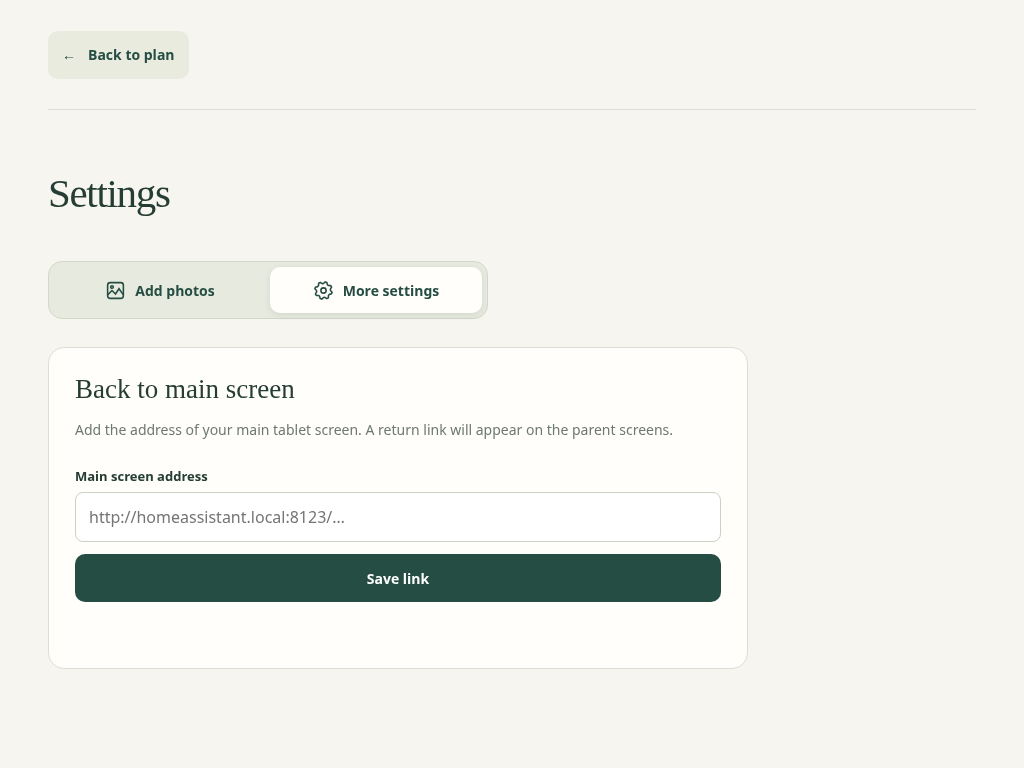
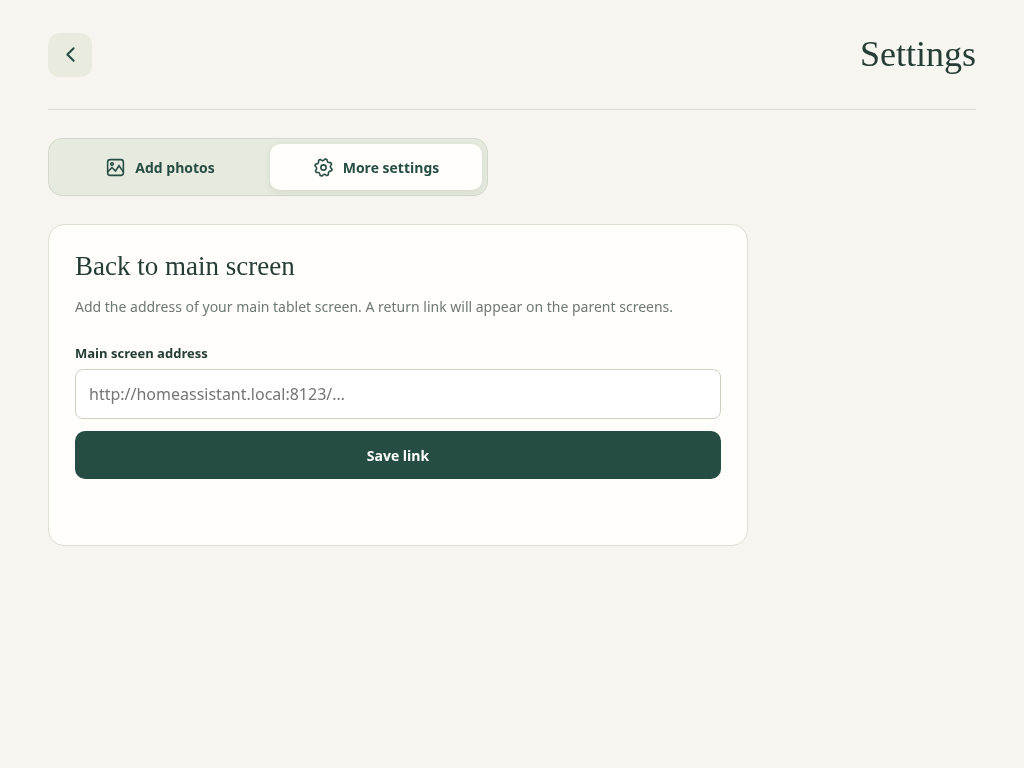
Introduce step-by-step planning and compact navigation in v1.0.17

diff --git a/transition_cues/transition-cues-web/app.js b/transition_cues/transition-cues-web/app.js
@@ -3,7 +3,7 @@ const $ = s => document.querySelector(s);
 const esc = x => String(x ?? '').replace(/[&<>"']/g, c => ({'&':'&amp;','<':'&lt;','>':'&gt;','"':'&quot;',"'":'&#39;'}[c]));
 const app = $('#app');
 let state, selected = {places:null, transport:null, items:[], people:[]}, category = 'places', locked = null, taps = [], pendingDelete = null;
-let toastTimer, pendingJourney = null, pendingEdit = null, itemsReviewed = false, reorderBusy = false, settingsTabFocus = false;
+let toastTimer, pendingJourney = null, pendingEdit = null, planStep = 0, reorderBusy = false, settingsTabFocus = false;
 function toast(message) { $('#toast').textContent = message; $('#toast').hidden = false; clearTimeout(toastTimer); toastTimer = setTimeout(() => $('#toast').hidden = true, 4500); }
 async function api(path, data) {
   let response;
@@ -17,14 +17,15 @@ async function api(path, data) {
 async function refresh() { state = await api('state'); state.items ??= []; state.people ??= []; }
 const libraryIcon='<svg viewBox="0 0 24 24" fill="none" stroke="currentColor" stroke-width="1.8" aria-hidden="true"><rect x="3" y="3" width="18" height="18" rx="3"/><circle cx="8" cy="8" r="1.5"/><path d="m3 17 5-5 4 4 4-6 5 7"/></svg>';
 const settingsIcon='<svg viewBox="0 0 24 24" fill="none" stroke="currentColor" stroke-width="1.8" stroke-linejoin="round" aria-hidden="true"><polygon points="20.00,12.00 21.81,13.95 21.24,15.83 18.65,16.44 17.66,17.66 17.56,20.31 15.83,21.24 13.56,19.85 12.00,20.00 10.05,21.81 8.17,21.24 7.56,18.65 6.34,17.66 3.69,17.56 2.76,15.83 4.15,13.56 4.00,12.00 2.19,10.05 2.76,8.17 5.35,7.56 6.34,6.34 6.44,3.69 8.17,2.76 10.44,4.15 12.00,4.00 13.95,2.19 15.83,2.76 16.44,5.35 17.66,6.34 20.31,6.44 21.24,8.17 19.85,10.44"/><circle cx="12" cy="12" r="3"/></svg>';
+const backIcon='<svg viewBox="0 0 24 24" fill="none" stroke="currentColor" stroke-width="2" stroke-linecap="round" stroke-linejoin="round" aria-hidden="true"><path d="m15 18-6-6 6-6"/></svg>';
 function frame(content, route) {
   document.body.classList.remove('lock-active');
-  app.innerHTML = `<div class="shell"><header class="header ${route==='choose'?'':'subpage-header'}">${route==='choose'?'<a class="brand" href="#choose"><img src="/icon.svg" alt=""><span>ReadySteady<small>Transition Cues</small></span></a>':'<a class="back-plan secondary" href="#choose"><span aria-hidden="true">←</span> Back to plan</a>'}${route==='choose'?`<nav class="nav" aria-label="Main navigation">${[['manage','Picture library',libraryIcon],['settings','Settings',settingsIcon]].map(([r,t,icon])=>`<a class="icon-link" href="#${r}" aria-label="${t}" title="${t}" ${route===r?'aria-current="page"':''}>${icon}</a>`).join('')}</nav>`:''}${state.returnUrl ? `<a class="return-link" href="${esc(state.returnUrl)}">← Back to main screen</a>` : ''}</header>${content}</div>`;
+  app.innerHTML = `<div class="shell"><header class="header ${route==='choose'?'':'subpage-header'}">${route==='choose'?'<a class="brand" href="#choose"><img src="/icon.svg" alt=""><span>ReadySteady<small>Transition Cues</small></span></a>':`<a class="back-plan header-back" href="#choose" aria-label="Back to plan" title="Back to plan">${backIcon}</a><h1 class="header-title">Settings</h1>`}${route==='choose'?`<nav class="nav" aria-label="Main navigation">${[['settings','Settings',settingsIcon]].map(([r,t,icon])=>`<a class="icon-link" href="#${r}" aria-label="${t}" title="${t}" ${route===r?'aria-current="page"':''}>${icon}</a>`).join('')}</nav>`:''}${state.returnUrl ? `<a class="return-link" href="${esc(state.returnUrl)}">← Back to main screen</a>` : ''}</header>${content}</div>`;
 }
 function intro(title, description, extra='') { return `<div class="intro"><div><h1>${title}</h1>${description?`<p>${description}</p>`:''}</div>${extra}</div>`; }
 
 function settingsHeader(section) {
-  return intro('Settings')+`<div class="settings-segments" role="tablist" aria-label="Settings sections">${[['photos','Add photos',libraryIcon],['more','More settings',settingsIcon]].map(([key,label,icon])=>`<button type="button" role="tab" id="settingsTab-${key}" aria-selected="${key===section}" aria-controls="settingsPanel" tabindex="${key===section?'0':'-1'}" data-settings-section="${key}">${icon}<span>${label}</span></button>`).join('')}</div>`;
+  return `<div class="settings-segments" role="tablist" aria-label="Settings sections">${[['photos','Add photos',libraryIcon],['more','More settings',settingsIcon]].map(([key,label,icon])=>`<button type="button" role="tab" id="settingsTab-${key}" aria-selected="${key===section}" aria-controls="settingsPanel" tabindex="${key===section?'0':'-1'}" data-settings-section="${key}">${icon}<span>${label}</span></button>`).join('')}</div>`;
 }
 function wireSettingsSections(section) {
   const tabs=[...app.querySelectorAll('[data-settings-section]')];
@@ -53,45 +54,40 @@ function empty(kind) {
   }[kind];
   return `<div class="empty"><div class="empty-symbol" aria-hidden="true">${content[0]}</div><h3>${content[1]}</h3><p>Add ${content[2]}.<br>Real, familiar pictures make each journey easier to recognise.</p><a class="secondary" href="#manage">Add ${content[3]} <span aria-hidden="true">＋</span></a></div>`;
 }
-function renderChoose() {
-  for (const k of ['places','transport']) if (selected[k]) selected[k] = state[k].find(x=>x.id===selected[k].id) || null;
-  selected.items = selected.items.map(item=>state.items.find(x=>x.id===item.id)).filter(Boolean).slice(0,MAX_BRING_ITEMS);
-  selected.people = selected.people.map(person=>state.people.find(x=>x.id===person.id)).filter(Boolean);
-  if(!selected.places){selected.transport=null;selected.items=[];selected.people=[];itemsReviewed=false;}
-  if(!selected.transport){selected.items=[];selected.people=[];itemsReviewed=false;}
-  const stepReady={places:true,transport:!!selected.places,items:!!(selected.places&&selected.transport),people:!!(selected.places&&selected.transport&&(itemsReviewed||selected.items.length||!state.items.length))};
-  frame(intro('Where are we going?', 'Choose a place, how you’ll get there, and anything to bring along.', '<span class="pill">A moment of calm before you go</span>') +
-    ['places','transport','items','people'].map((kind,i)=>{
-      const multi = kind==='items' || kind==='people', ready=stepReady[kind];
-      return `<section class="step ${ready?'':'step-inactive'}" aria-disabled="${!ready}" aria-labelledby="${kind}Heading"><div class="step-heading"><div class="step-title"><h2 id="${kind}Heading"><span class="step-number">${i+1}</span>${['Choose a place','Choose how to get there','Items to bring along','People'][i]}</h2>${multi?'<p class="step-optional">Optional</p>':''}</div>${multi?`<small id="${kind==='items'?'itemCount':'peopleCount'}" role="status">${kind==='items' ? `${selected.items.length} of ${MAX_BRING_ITEMS} selected` : `${selected.people.length} selected`}</small>`:''}</div>${multi?`<p class="step-help">${kind==='items'?'Choose up to 4 items.':'Choose the people coming along, or leave this empty.'} Tap a selected picture again to remove it.</p>`:''}${!ready?`<p class="step-prerequisite">${kind==='transport'?'Choose a place first.':kind==='items'?'Choose transport first.':'Choose items or skip that step first.'}</p>`:''}${kind==='items'&&ready&&!itemsReviewed&&!selected.items.length&&state.items.length?'<button id="skipItems" type="button" class="secondary skip-items">No items to bring →</button>':''}<div class="step-options" ${ready?'':'inert'}>${state[kind].length ? `<div class="grid">${state[kind].map(x=>{
-        const active = multi ? selected[kind].some(item=>item.id===x.id) : selected[kind]?.id===x.id;
-        const atLimit = kind==='items' && !active && selected.items.length>=MAX_BRING_ITEMS;
-        return `<button class="picture ${kind==='people'?'person-picture':''} ${active?'selected':''}" data-kind="${kind}" data-id="${x.id}" aria-pressed="${active}" ${atLimit||!ready?'disabled':''}><img src="${esc(x.image)}" alt=""><span class="check" aria-hidden="true">✓</span><span class="name">${esc(x.name)}</span></button>`;
-      }).join('')}</div>` : empty(kind)}</div></section>`;
-    }).join('')+
-    `<div class="journey-bar" ${selected.places?'':'hidden'}><div><strong>${selected.places && selected.transport ? `${esc(selected.places.name)} · ${esc(selected.transport.name)}${selected.items.length ? ` · ${selected.items.length} to bring` : ''}` : 'Choose a place and transport to continue'}</strong></div><button id="start" class="primary" ${selected.places&&selected.transport?'':'disabled'}>Show the plan <span aria-hidden="true">→</span></button></div>`, 'choose');
-  app.querySelectorAll('[data-kind]').forEach(button => button.onclick = () => {
-    const {kind,id} = button.dataset;
-    const item = state[kind].find(x=>x.id===id);
-    if(!stepReady[kind])return;
-    if(kind==='items')itemsReviewed=true;
-    if(kind==='items' || kind==='people') {
-      if(selected[kind].some(x=>x.id===id)) selected[kind]=selected[kind].filter(x=>x.id!==id);
-      else if(kind==='people' || selected.items.length<MAX_BRING_ITEMS) selected[kind].push(item);
+const planKinds=['places','transport','items','people'];
+function renderChoose(focusStep=false) {
+  for(const kind of ['places','transport'])if(selected[kind])selected[kind]=state[kind].find(item=>item.id===selected[kind].id)||null;
+  selected.items=selected.items.map(item=>state.items.find(x=>x.id===item.id)).filter(Boolean).slice(0,MAX_BRING_ITEMS);
+  selected.people=selected.people.map(item=>state.people.find(x=>x.id===item.id)).filter(Boolean);
+  if(!selected.places){selected.transport=null;selected.items=[];selected.people=[];planStep=0;}
+  else if(!selected.transport){selected.items=[];selected.people=[];planStep=Math.min(planStep,1);}
+  const kind=planKinds[planStep], multi=planStep>=2;
+  const thumbnails=planKinds.flatMap((key,index)=>(Array.isArray(selected[key])?selected[key]:selected[key]?[selected[key]]:[]).map(item=>`<button type="button" class="plan-thumbnail ${key==='people'?'person-thumbnail':''}" data-edit-step="${index}" aria-label="Change ${key==='places'?'place':key==='items'?'item':key==='people'?'person':'transport'}: ${esc(item.name)}" title="${esc(item.name)}"><img src="${esc(item.image)}" alt=""></button>`)).join('');
+  const progress=selected.places?`<div class="plan-progress" aria-label="Your selections">${planStep>0?`<button id="previousStep" type="button" class="step-back" aria-label="Previous selection" title="Previous selection">${backIcon}</button>`:''}<div class="plan-thumbnails">${thumbnails}</div></div>`:intro('Where are we going?','Choose a place, how you’ll get there, and anything to bring along.');
+  frame(progress+`<section class="step" id="planStep" data-step="${planStep}" aria-labelledby="planHeading"><div class="step-heading"><div class="step-title"><h2 id="planHeading" tabindex="-1"><span class="step-number">${planStep+1}</span>${['Choose a place','Choose how to get there','Items to bring along','People'][planStep]}</h2>${multi?'<p class="step-optional">Optional</p>':''}</div>${multi?`<small id="${kind==='items'?'itemCount':'peopleCount'}" role="status">${kind==='items'?`${selected.items.length} of ${MAX_BRING_ITEMS} selected`:`${selected.people.length} selected`}</small>`:''}</div>${multi?`<p class="step-help">${kind==='items'?'Choose up to 4 items, then continue to People.':'Choose the people coming along, or leave this empty.'} Tap a selected picture again to remove it.</p>`:''}${state[kind].length?`<div class="grid">${state[kind].map(item=>{
+    const active=multi?selected[kind].some(x=>x.id===item.id):selected[kind]?.id===item.id;
+    const full=kind==='items'&&!active&&selected.items.length>=MAX_BRING_ITEMS;
+    return `<button class="picture ${kind==='people'?'person-picture':''} ${active?'selected':''}" data-kind="${kind}" data-id="${item.id}" aria-pressed="${active}" ${full?'disabled':''}><img src="${esc(item.image)}" alt=""><span class="check" aria-hidden="true">✓</span><span class="name">${esc(item.name)}</span></button>`;
+  }).join('')}</div>`:empty(kind)}</section><div class="journey-bar wizard-actions" ${selected.places?'':'hidden'}>${planStep===2?`<button id="nextStep" type="button" class="secondary">${selected.items.length?'Continue to People':'No items to bring'} <span aria-hidden="true">→</span></button>`:''}<button id="start" class="primary" ${selected.places&&selected.transport?'':'disabled'}>Show the plan <span aria-hidden="true">→</span></button></div>`,'choose');
+  app.querySelectorAll('[data-kind]').forEach(button=>button.onclick=()=>{
+    const item=state[kind].find(x=>x.id===button.dataset.id);
+    if(multi){
+      if(selected[kind].some(x=>x.id===item.id))selected[kind]=selected[kind].filter(x=>x.id!==item.id);
+      else if(kind==='people'||selected.items.length<MAX_BRING_ITEMS)selected[kind].push(item);
       else return;
-    } else selected[kind] = item;
-    renderChoose();
-    app.querySelector(`[data-kind="${kind}"][data-id="${id}"]`)?.focus({preventScroll:true});
+      renderChoose();app.querySelector(`[data-kind="${kind}"][data-id="${item.id}"]`)?.focus({preventScroll:true});
+    }else{selected[kind]=item;planStep++;renderChoose(true);}
   });
-  if($('#skipItems'))$('#skipItems').onclick=()=>{itemsReviewed=true;renderChoose();$('#peopleHeading').scrollIntoView({block:'nearest'});};
-  $('#start').onclick = () => {
+  if($('#previousStep'))$('#previousStep').onclick=()=>{planStep--;renderChoose(true);};
+  app.querySelectorAll('[data-edit-step]').forEach(button=>button.onclick=()=>{planStep=Number(button.dataset.editStep);renderChoose(true);});
+  if($('#nextStep'))$('#nextStep').onclick=()=>{planStep=3;renderChoose(true);};
+  $('#start').onclick=()=>{
     if(!selected.places||!selected.transport)return;
-    pendingJourney = {places:selected.places, transport:selected.transport, items:selected.items.slice(0,MAX_BRING_ITEMS), people:[...selected.people]};
-    let skip=false;
-    try { skip=localStorage.getItem('tc-skip-plan-intro')==='true'; } catch {}
-    if(skip)beginJourney();
-    else { $('#skipPlanIntro').checked=false; $('#planDialog').showModal(); }
+    pendingJourney={places:selected.places,transport:selected.transport,items:selected.items.slice(0,MAX_BRING_ITEMS),people:[...selected.people]};
+    let skip=false;try{skip=localStorage.getItem('tc-skip-plan-intro')==='true';}catch{}
+    if(skip)beginJourney();else{$('#skipPlanIntro').checked=false;$('#planDialog').showModal();}
   };
+  if(focusStep){$('#planHeading').focus({preventScroll:true});window.scrollTo(0,0);}
 }
 function beginJourney() {
   if(!pendingJourney)return;
@@ -115,7 +111,7 @@ function finishJourney() {
   catch { toast('Allow browser storage to finish this saved plan.');return; }
   selected={places:locked.places,transport:locked.transport,items:locked.items||[],people:locked.people||[]};
   state ??= {places:[locked.places],transport:[locked.transport],items:locked.items||[],people:locked.people||[],returnUrl:''};
-  locked=null;taps=[];itemsReviewed=true;
+  locked=null;taps=[];planStep=0;
   if(document.fullscreenElement)document.exitFullscreen().catch(()=>{});
   location.hash='choose';renderChoose();
 }

diff --git a/transition_cues/transition-cues-web/style.css b/transition_cues/transition-cues-web/style.css
@@ -50,3 +50,7 @@
 .brand small{font-size:11px;line-height:1.3;letter-spacing:.6px;margin-top:4px}
 
 .settings-segments{display:flex;gap:4px;padding:5px;margin:0 0 28px;border:1px solid #d3d9ca;border-radius:14px;background:#e7ebdf;width:min(100%,440px)}.settings-segments [role=tab]{display:flex;align-items:center;justify-content:center;gap:9px;flex:1;min-width:0;min-height:46px;padding:10px 12px;border-radius:10px;color:var(--green);background:transparent;font-size:14px;font-weight:600}.settings-segments [role=tab][aria-selected=true]{background:#fffefa;box-shadow:0 2px 7px #253d351a}.settings-segments svg{width:21px;height:21px;flex:none}#settingsPanel{margin-bottom:28px}
+
+/* One choice at a time, with compact editable selection thumbnails. */
+.header .header-back,.step-back{display:inline-flex;align-items:center;justify-content:center;width:44px;height:44px;min-height:44px;padding:0;border-radius:12px;background:#e9ebdf;color:var(--green);flex:none}.header-back svg,.step-back svg{width:25px;height:25px}.header-title{margin:0 0 0 auto;font:normal clamp(28px,4vw,36px)/1.15 var(--serif);text-align:right}.settings-segments{margin-top:28px}.plan-progress{display:flex;align-items:center;gap:12px;margin:28px 0;min-height:44px}.plan-thumbnails{display:flex;flex-wrap:wrap;gap:6px;min-width:0}.plan-thumbnail{width:44px;height:44px;padding:4px;background:transparent;border-radius:10px;flex:none}.plan-thumbnail img{display:block;width:36px;height:36px;object-fit:cover;border-radius:8px}.person-thumbnail img{border-radius:50%}.wizard-actions{justify-content:flex-end;flex-wrap:wrap}.wizard-actions #nextStep{margin-right:auto;min-height:40px;font-size:13px;padding:10px 14px}@media(max-width:620px){.wizard-actions{flex-direction:row;align-items:center}.wizard-actions .secondary{width:auto}.plan-progress{margin:22px 0}}
+.wizard-actions{background:transparent;border:0;box-shadow:none;padding:0}

diff --git a/tests/browser_display.py b/tests/browser_display.py
@@ -8,7 +8,7 @@ import threading
 sys.path.insert(0,str(Path(__file__).resolve().parents[1]/'transition_cues'))
 from server import make_server
 from playwright.sync_api import sync_playwright, expect
-from browser_helpers import track_fullscreen, leave_fullscreen, show_plan
+from browser_helpers import track_fullscreen, leave_fullscreen, show_plan, open_step
 
 
 def run(engine):
@@ -25,9 +25,13 @@ def run(engine):
                 page.goto(f'http://127.0.0.1:{server.server_port}')
                 expect(page.locator('#start')).to_be_disabled()
                 expect(page.locator('#pinDialog')).to_have_count(0)
+                expect(page.locator('.nav a')).to_have_count(1)
+                expect(page.get_by_role('link',name='Picture library',exact=True)).to_have_count(0)
                 page.get_by_role('link',name='Settings',exact=True).click()
                 expect(page.get_by_role('heading',name='Settings',exact=True)).to_be_visible()
-                expect(page.locator('.intro p')).to_have_count(0)
+                expect(page.locator('.intro')).to_have_count(0)
+                assert page.get_by_role('link',name='Back to plan',exact=True).inner_text()==''
+                assert page.locator('.header-title').bounding_box()['x']>512
                 expect(page.get_by_role('tab',name='Add photos',exact=True)).to_have_attribute('aria-selected','true')
                 expect(page.locator('#uploadForm')).to_be_visible()
                 expect(page.locator('#returnForm')).to_have_count(0)
@@ -53,32 +57,52 @@ def run(engine):
                 page.evaluate("""async names=>{for(const [kind,name] of names){const canvas=document.createElement('canvas');canvas.width=canvas.height=400;const ctx=canvas.getContext('2d');ctx.fillStyle={places:'#9caf88',transport:'#ddbd86',people:'#c5b5d3',items:'#a8c5d6'}[kind];ctx.fillRect(0,0,400,400);const image=canvas.toDataURL('image/png').split(',')[1];const r=await fetch('/api/items',{method:'POST',headers:{'Content-Type':'application/json'},body:JSON.stringify({kind,name,image})});if(!r.ok)throw Error('Fixture upload failed')}}""",names)
                 page.reload()
                 expect(page.locator('[data-kind="places"]')).to_have_count(2)
-                # Selection cards must top-align photos and name starts, even when one name wraps.
+                expect(page.get_by_role('heading',name='Where are we going?',exact=True)).to_be_visible()
+                expect(page.locator('[data-kind="transport"],[data-kind="items"],[data-kind="people"]')).to_have_count(0)
+                expect(page.locator('#start')).not_to_be_visible()
+                page.screenshot(path='/tmp/readysteady-step-places.png',full_page=True)
+                page.get_by_role('button',name=names[0][1],exact=True).click()
+                expect(page.locator('#planStep')).to_have_attribute('data-step','1')
+                expect(page.locator('[data-kind="places"]')).to_have_count(0)
+                expect(page.get_by_role('heading',name='Where are we going?',exact=True)).to_have_count(0)
+                expect(page.locator('.plan-thumbnail')).to_have_count(1)
+                page.screenshot(path='/tmp/readysteady-step-transport.png',full_page=True)
+                expect(page.locator('#start')).to_be_disabled()
+                page.locator('#previousStep').click()
+                expect(page.locator('[data-kind="places"][aria-pressed="true"]')).to_have_count(1)
+                page.get_by_role('button',name=names[0][1],exact=True).click()
+                page.get_by_role('button',name='Bus',exact=True).click()
+                expect(page.locator('#planStep')).to_have_attribute('data-step','2')
+                expect(page.locator('.plan-thumbnail')).to_have_count(2)
+                page.locator('#nextStep').click()
+                expect(page.locator('#planStep')).to_have_attribute('data-step','3')
+                # Only the current category is rendered; mixed-length card names remain aligned.
                 for width,height in [(390,844),(768,1024),(1024,768),(1280,900)]:
                     page.set_viewport_size({'width':width,'height':height})
                     for kind in ['places','transport','items','people']:
+                        open_step(page,kind)
                         photos=page.locator(f'[data-kind="{kind}"] img').all()
                         captions=page.locator(f'[data-kind="{kind}"] .name').all()
                         a,b=[photo.bounding_box() for photo in photos]
                         assert abs(a['y']-b['y'])<1,(kind,width,'photo alignment',a,b)
                         assert abs(captions[0].bounding_box()['y']-captions[1].bounding_box()['y'])<1,(kind,width,'name alignment')
-                    assert page.locator('[data-kind="places"] .name').first.bounding_box()['height']>page.locator('[data-kind="places"] .name').last.bounding_box()['height']
-                page.screenshot(path='/tmp/transition-cues-aligned-picker.png',full_page=True)
-                expect(page.locator('#start')).not_to_be_visible()
-                expect(page.get_by_role('button',name='Bus',exact=True)).to_be_disabled()
-                expect(page.get_by_role('button',name='Drink',exact=True)).to_be_disabled()
-                expect(page.get_by_role('button',name='Person B',exact=True)).to_be_disabled()
-                page.get_by_role('button',name=names[0][1],exact=True).click()
-                expect(page.locator('#start')).to_be_visible();expect(page.locator('#start')).to_be_disabled()
-                expect(page.get_by_role('button',name='Drink',exact=True)).to_be_disabled()
-                page.get_by_role('button',name='Bus',exact=True).click()
-                expect(page.locator('#start')).to_be_enabled()
-                expect(page.get_by_role('button',name='Person B',exact=True)).to_be_disabled()
-                page.locator('#skipItems').click()
-                expect(page.get_by_role('button',name='Person B',exact=True)).to_be_enabled()
+                        assert page.locator('[data-kind]').count()==2
+                open_step(page,'items')
+                page.get_by_role('button',name='Drink',exact=True).click()
+                expect(page.locator('.plan-thumbnail')).to_have_count(3)
+                expect(page.locator('#planStep')).to_have_attribute('data-step','2')
+                page.get_by_role('button',name='Drink',exact=True).click()
+                expect(page.locator('.plan-thumbnail')).to_have_count(2)
                 for kind in ['items','people']:
+                    open_step(page,kind)
                     for item_kind,name in names:
                         if kind==item_kind:page.get_by_role('button',name=name,exact=True).click()
+                expect(page.locator('.plan-thumbnail')).to_have_count(6)
+                page.locator('[data-edit-step="0"]').click()
+                expect(page.locator('#planStep')).to_have_attribute('data-step','0')
+                expect(page.locator('[data-kind="places"][aria-pressed="true"]')).to_have_count(1)
+                open_step(page,'people')
+                page.screenshot(path='/tmp/transition-cues-aligned-picker.png',full_page=True)
                 show_plan(page);leave_fullscreen(page)
                 def assert_aligned():
                     photos=page.locator('.cue-card img').all()
@@ -118,7 +142,7 @@ def run(engine):
                 page.reload();expect(page.locator('#start')).not_to_be_visible()
                 assert not errors,errors
                 browser.close()
-                print(f'PASS ({engine}): selection-card photo/name alignment at phone/tablet sizes, sequential sections, optional-item skip, conditional start button, accessible navigation, portrait prompt, landscape display, aligned long names and photos, companion groups, snapshot reload and timed five-tap exit.')
+                print(f'PASS ({engine}): selection-card photo/name alignment at phone/tablet sizes, one-step wizard, thumbnail summary and editing, back navigation, optional-item skip, conditional start button, accessible navigation, portrait prompt, landscape display, aligned long names and photos, companion groups, snapshot reload and timed five-tap exit.')
         finally:
             server.shutdown();server.server_close();thread.join()
 

diff --git a/tests/browser_people_crop.py b/tests/browser_people_crop.py
@@ -9,7 +9,7 @@ import threading
 sys.path.insert(0, str(Path(__file__).resolve().parents[1] / 'transition_cues'))
 from server import make_server
 from playwright.sync_api import sync_playwright, expect
-from browser_helpers import track_fullscreen, leave_fullscreen, show_plan
+from browser_helpers import track_fullscreen, leave_fullscreen, show_plan, open_step
 
 
 def run(engine):
@@ -120,7 +120,7 @@ def run(engine):
                 expect(mobile.get_by_role('button',name='Move Person B right',exact=True)).to_be_disabled()
                 mobile.get_by_role('button',name='Move Person B left',exact=True).click()
                 expect(mobile.locator('.library-item strong').first).to_have_text('Person B')
-                page.reload()
+                page.reload();page.get_by_role('button',name='Park',exact=True).click();page.get_by_role('button',name='Bus',exact=True).click();open_step(page,'people')
                 assert page.locator('[data-kind="people"] .name').all_text_contents()==['Person B','Person A']
                 mobile.get_by_role('button',name='Move Person B right',exact=True).click()
                 expect(mobile.locator('.library-item strong').first).to_have_text('Person A')
@@ -147,7 +147,10 @@ def run(engine):
                 expect(page.locator('.journey-people')).to_have_count(0)
                 for _ in range(5):page.locator('#lockedSurface h1:visible').click()
                 expect(page.locator('#start')).to_be_visible()
-                for name in ['Drink','Coat','Toy','Headphones','Person A','Person B']:page.get_by_role('button',name=name,exact=True).click()
+                open_step(page,'items')
+                for name in ['Drink','Coat','Toy','Headphones']:page.get_by_role('button',name=name,exact=True).click()
+                open_step(page,'people')
+                for name in ['Person A','Person B']:page.get_by_role('button',name=name,exact=True).click()
                 # People can be toggled independently of the four-item cap.
                 page.get_by_role('button',name='Person B',exact=True).click()
                 expect(page.locator('#peopleCount')).to_contain_text('1 selected')

diff --git a/tests/browser_smoke.py b/tests/browser_smoke.py
@@ -47,8 +47,8 @@ def run():
                 mobile.screenshot(path='/tmp/transition-cues-phone.png', full_page=True)
                 assert mobile.evaluate('document.documentElement.scrollWidth <= innerWidth'), 'Phone layout overflows'
                 page.reload()
-                page.get_by_role('button', name='Park').click()
-                page.get_by_role('button', name='Bus').click()
+                page.get_by_role('button', name='Park',exact=True).click()
+                page.get_by_role('button', name='Bus',exact=True).click()
                 # Bring-along items are optional; old saved journeys still restore.
                 expect(page.locator('#start')).to_be_enabled()
                 show_plan(page)
@@ -59,8 +59,8 @@ def run():
                 expect(page.locator('.bring-items')).to_have_count(0)
                 for _ in range(5): page.locator('#lockedSurface h1:visible').click()
                 expect(page.locator('#start')).to_be_visible()
-                page.get_by_role('button', name='Park').click()
-                page.get_by_role('button', name='Bus').click()
+                page.get_by_role('button', name='Park',exact=True).click()
+                page.get_by_role('button', name='Bus',exact=True).click()
                 for name in ['Drink','Headphones','Coat','Toy']:
                     page.get_by_role('button', name=name, exact=True).click()
                 expect(page.locator('#itemCount')).to_contain_text('4 of 4')
@@ -121,7 +121,7 @@ def run():
                 for _ in range(5): page.locator('#lockedSurface h1:visible').click()
                 expect(page.locator('#start')).not_to_be_visible()
                 expect(page.locator('#lockedSurface')).to_have_count(0)
-                expect(page.locator('#itemCount')).to_contain_text('0 of 4')
+                expect(page.locator('#itemCount')).to_have_count(0)
                 expect(page.get_by_role('button', name='Drink', exact=True)).to_have_count(0)
                 mobile.get_by_role('tab', name='More settings', exact=True).click()
                 mobile.locator('#returnUrl').fill('http://homeassistant.local:8123/lovelace/0')

diff --git a/tests/browser_helpers.py b/tests/browser_helpers.py
@@ -29,3 +29,19 @@ def leave_fullscreen(page):
 def show_plan(page):
     page.locator('#start').click()
     page.locator('#planContinue').click()
+
+
+def open_step(page, kind):
+    target=['places','transport','items','people'].index(kind)
+    page.locator('#planStep').wait_for()
+    current=int(page.locator('#planStep').get_attribute('data-step'))
+    while current>target:
+        page.locator('#previousStep').click()
+        current=int(page.locator('#planStep').get_attribute('data-step'))
+    while current<target:
+        if current<2:
+            key=['places','transport'][current]
+            page.locator(f'[data-kind="{key}"][aria-pressed="true"]').click()
+        else:
+            page.locator('#nextStep').click()
+        current=int(page.locator('#planStep').get_attribute('data-step'))

diff --git a/tests/container_smoke.py b/tests/container_smoke.py
@@ -81,5 +81,5 @@ print('PASS: replacement container preserves library and images in /data')
 
 if __name__ == '__main__':
     parser = argparse.ArgumentParser()
-    parser.add_argument('--image', default='transition-cues-ha-check:1.0.16')
+    parser.add_argument('--image', default='transition-cues-ha-check:1.0.17')
     run(parser.parse_args().image)

diff --git a/transition_cues/DOCS.md b/transition_cues/DOCS.md
@@ -40,7 +40,7 @@ If you are starting with an empty library, stop the old add-on, install and star
 
 ## First launch and pictures
 
-The picture and gear icons at the top right open **Settings**, with **Add photos** selected by default. Its picture icon shows the upload form and existing library. Choose **More settings** (cog icon) for the **Back to main screen** address; this is the only setting in that section. Use **← Back to plan** at the top left to return to journey selection. The segmented control supports the arrow keys and Home/End, and existing picture-library URLs still open Add photos.
+The gear icon at the top right opens **Settings**, with **Add photos** selected by default. The Settings title sits at the right of its header. Its picture icon shows the upload form and existing library. Choose **More settings** (cog icon) for the **Back to main screen** address; this is the only setting in that section. Use the chevron back button at the top left to return to journey selection. The segmented control supports the arrow keys and Home/End, and existing picture-library URLs still open Add photos.
 
 No PIN or first-launch setup is required. Open the picture library to add your photos. Existing photo libraries and return links remain available after updating; obsolete saved PIN hashes are removed automatically.
 
@@ -68,9 +68,9 @@ Crops keep the existing picture's name and category. Images on an already-locked
 
 ## Plan a journey
 
-The numbered sections enable in sequence. Choose a place to enable Transport, then choose transport to enable Items. People enables after you select an item or press **No items to bring**; if the item library is empty, People enables automatically. Deselecting the last item still allows People, since Items is optional. **Show the plan** appears after choosing a place and becomes available once transport is selected; both optional sections may be left empty.
+The planner shows only one category at a time. It starts with Places; choosing a place advances to Transport, and choosing transport advances to Items. Select up to four items, then use **Continue to People** (or **No items to bring**). Choose any people, or leave that step empty. People has no four-person cap.
 
-Choose one place and one transport picture. Optionally select zero to four items; tap a selected item to deselect it. Select any people coming along, or leave People empty. People has no four-person cap. Tap **Show the plan**.
+After the first place is selected, the opening title and description are replaced by small thumbnails of your choices. The thumbnails update as you select or deselect pictures. Use the chevron to return to the previous step, or tap a thumbnail to edit that category. Earlier choices are retained when navigating back. **Show the plan** appears after choosing a place and becomes available once transport is selected; both optional categories may be left empty.
 
 The journey appears only in landscape. In portrait, a **Turn your device** prompt appears; rotate the device to see the same saved journey. Destination and transport photos stay aligned, with **To:** and **By:** beside their names. Long names expand downward. People and bring-along items appear in groups beside each other below the main photos; larger groups may wrap and the display can scroll.
 

diff --git a/README.md b/README.md
@@ -24,7 +24,7 @@ No GitHub token is needed for this public repository. You do not need to copy fi
 
 ## Use
 
-Choose a place and transport, optionally select up to four bring-along items and any people joining you, then tap **Show the plan**. The locked display shows the place and transport first, followed by selected people as circular portraits and bring-along items in side-by-side groups. The journey appears in landscape; portrait shows a **Turn your device** prompt. People and items are optional; tap any selected picture again to deselect it. Tap five times within three seconds to finish. Reloading restores the locked journey in that browser.
+Choose a place, then transport, one step at a time. Small thumbnails at the top show your choices; use the back arrow or tap a thumbnail to edit an earlier choice. Optionally select up to four bring-along items, continue to People, and select anyone joining you. Tap **Show the plan** when ready. The locked display shows the place and transport first, followed by selected people as circular portraits and bring-along items in side-by-side groups. The journey appears in landscape; portrait shows a **Turn your device** prompt. People and items are optional; tap any selected picture again to deselect it. Tap five times within three seconds to finish. Reloading restores the locked journey in that browser.
 
 On a phone, open the same server address and choose **Settings → Add photos** to upload, name, browse and remove pictures in all four categories. Use **Crop photo** before uploading or beside an existing library picture to frame the image. People have a circular preview; drag, zoom or use the position sliders to centre each face. Use **Settings → More settings** to add a **Back to main screen** link in the parent-screen navigation. The return link can point to a dashboard or another application.
 
@@ -55,6 +55,7 @@ The browser stores only the current locked journey snapshot locally. Uploaded ph
 Screenshots use coloured test placeholders, not family photographs:
 
 - [Tablet selection screen](docs/screenshots/picker.png)
+- [Transport selection with thumbnail summary](docs/screenshots/transport.png)
 - [More settings](docs/screenshots/settings.png)
 - [Portrait rotation prompt](docs/screenshots/portrait.png)
 - [Locked display with people and bring-along items](docs/screenshots/locked.png)

diff --git a/DEVELOPMENT.md b/DEVELOPMENT.md
@@ -17,7 +17,7 @@ python3 -m unittest discover -s tests -v
 node --check transition_cues/transition-cues-web/app.js
 ```
 
-For optional browser checks, install Playwright and its Chromium dependency, then run `python3 tests/browser_smoke.py` and `python3 tests/browser_people_crop.py`. The latter checks square frames, fill/fit output pixels, background colours, source transparency, People portraits and immutable locked journey snapshots; add `--browser webkit` to check the same flows with the Safari engine. Run `python3 tests/browser_display.py` (or add `--browser webkit`) for landscape gating, long-name alignment and timed tap exit. Run `python3 tests/browser_splash.py` (or add `--browser webkit`) to check the pre-lock splash and saved browser preference. Set `CHROMIUM_PATH` to use a system Chromium. It creates an isolated temporary library, not `/data` or a shared Home Assistant folder.
+For optional browser checks, install Playwright and its Chromium dependency, then run `python3 tests/browser_smoke.py` and `python3 tests/browser_people_crop.py`. The latter checks square frames, fill/fit output pixels, background colours, source transparency, People portraits and immutable locked journey snapshots; add `--browser webkit` to check the same flows with the Safari engine. Run `python3 tests/browser_display.py` (or add `--browser webkit`) for the one-step planner, selection thumbnails, back navigation, Settings controls, landscape gating, long-name alignment and timed tap exit. Run `python3 tests/browser_splash.py` (or add `--browser webkit`) to check the pre-lock splash and saved browser preference. Set `CHROMIUM_PATH` to use a system Chromium. It creates an isolated temporary library, not `/data` or a shared Home Assistant folder.
 
 CI runs the tests and builds the add-on for `linux/amd64` and `linux/arm64` (Home Assistant's `aarch64`). Each job also runs an isolated container check that verifies /data storage and preservation across container replacement. Nothing is pushed to a registry or deployed. A local equivalent is `docker build -t transition-cues-check ./transition_cues` followed by `python3 tests/container_smoke.py --image transition-cues-check`. The smoke check creates and removes only its own temporary containers and volume.
 

diff --git a/transition_cues/CHANGELOG.md b/transition_cues/CHANGELOG.md
@@ -1,5 +1,12 @@
 # Changelog
 
+## 1.0.17
+
+- Move Settings into the header on the right, with an accessible chevron-only back control on the left. Keep only the cog on the plan screen.
+- Show one journey selection step at a time, automatically advancing after place and transport choices.
+- Replace the opening introduction with compact selected-photo thumbnails; support previous-step navigation and thumbnail editing.
+- Keep optional items and people, with an explicit continuation after selecting multiple items.
+
 ## 1.0.16
 
 - Combine photo management and settings under a Settings heading with an icon-labelled segmented control.
